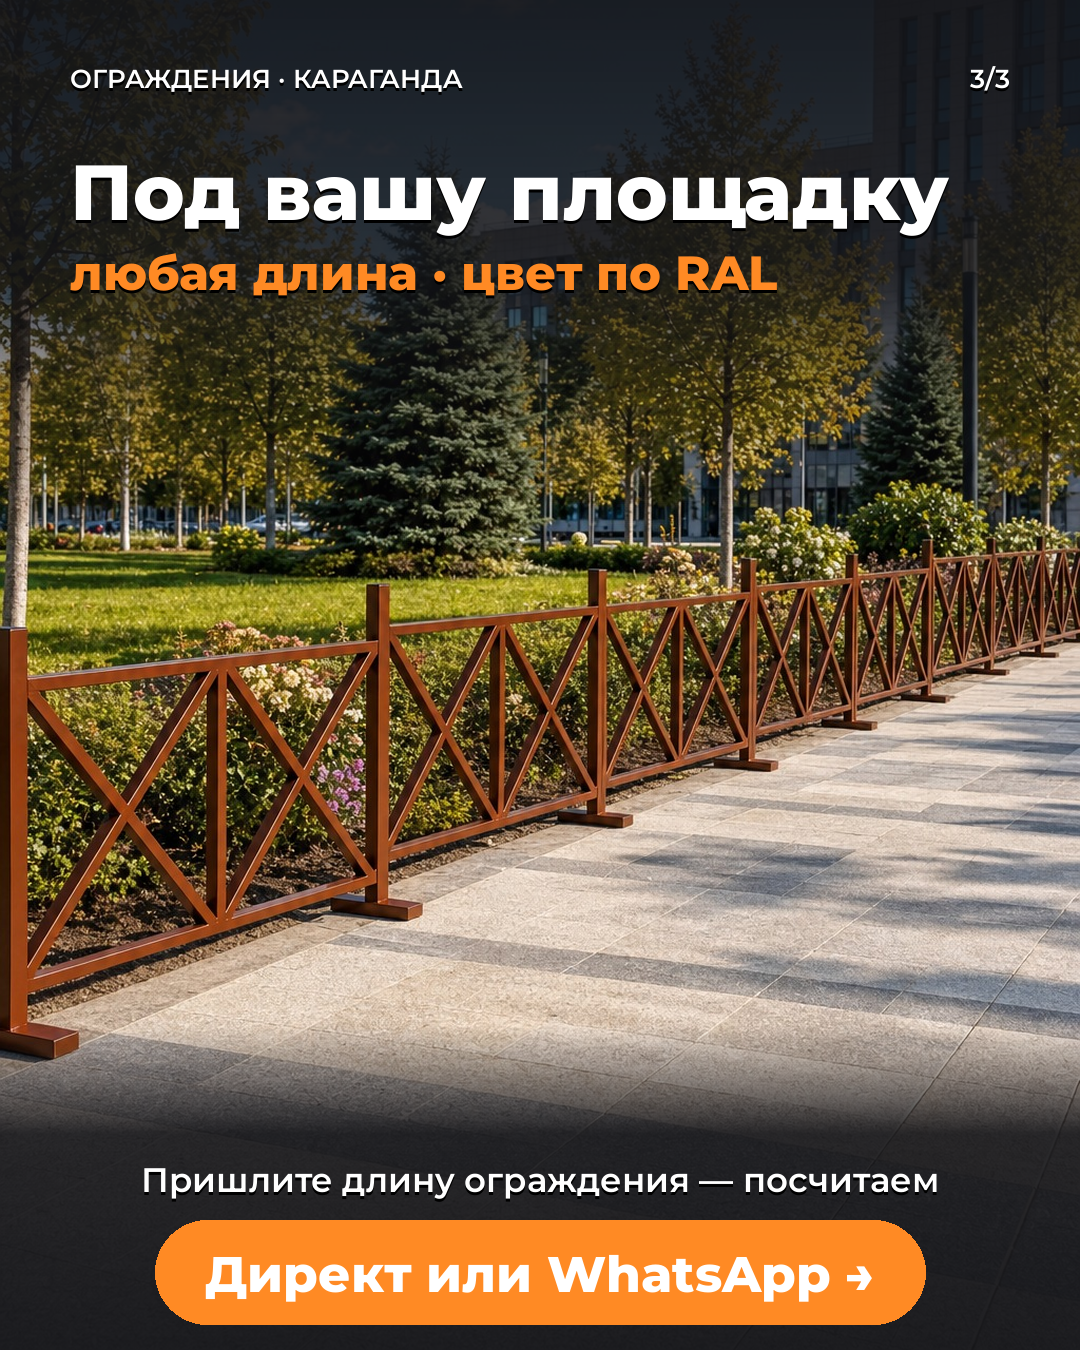
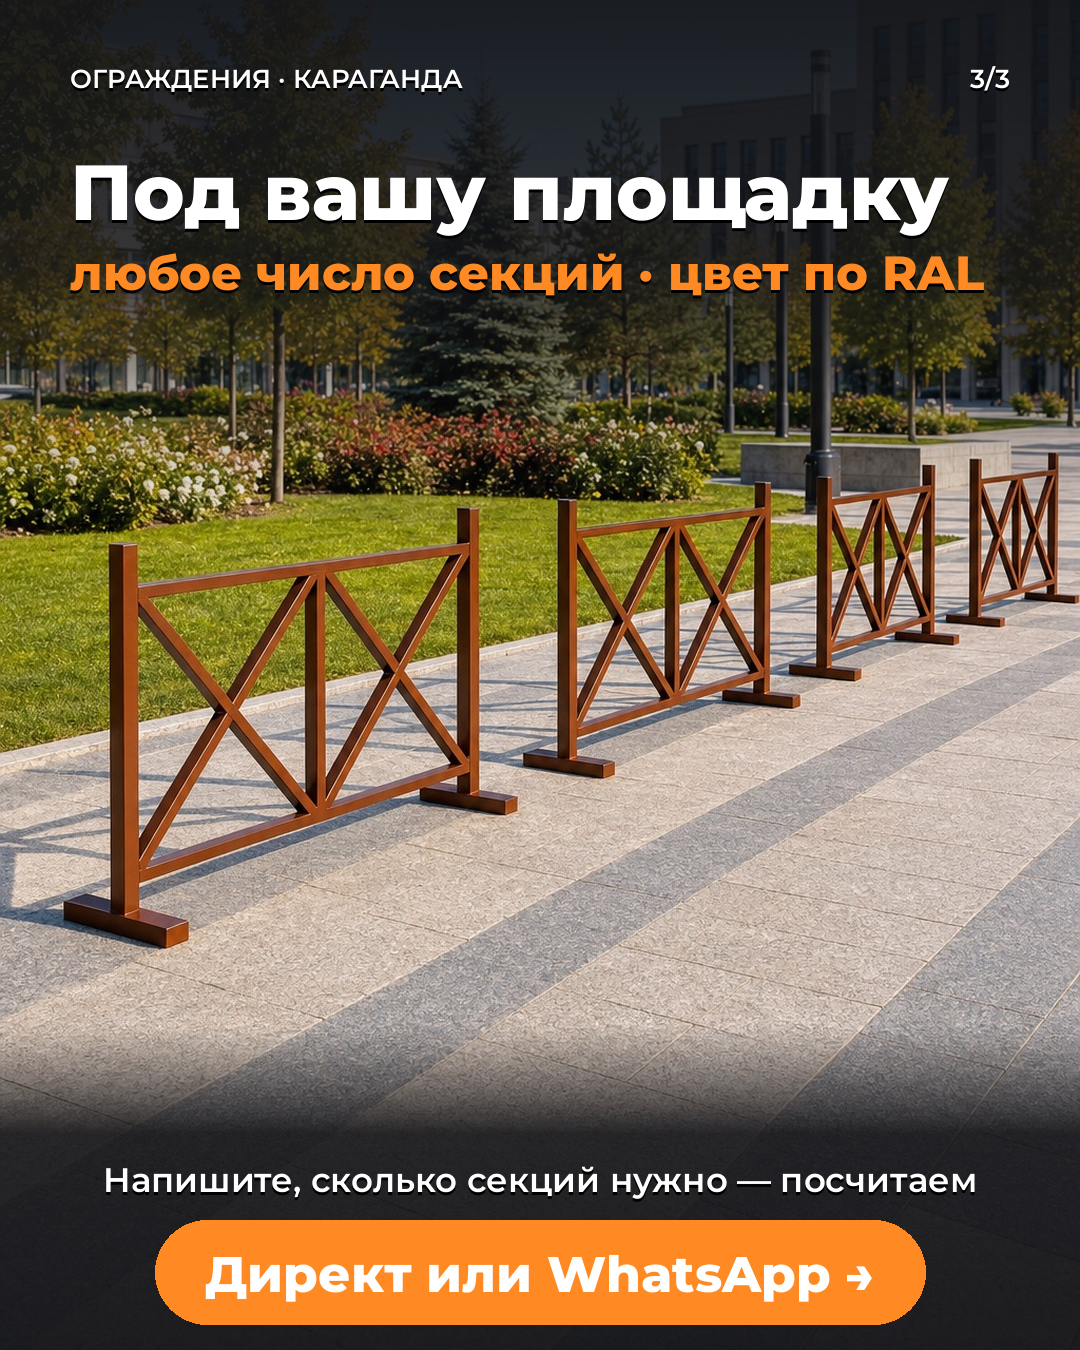
Fence carousel: seamless welded joint close-up, free-standing separate sections
Claude-Session: https://claude.ai/code/session_01WpjTYCbrJZsAU7gXfc5YbY

diff --git a/tools/creatives/render_fence.py b/tools/creatives/render_fence.py
@@ -86,16 +86,16 @@ def slide3(w, h):
         img, d = canvas("row.jpg", w, h, (0.5, 1.0), [(0, 0.95), (0.2, 0.85), (0.3, 0.3), (0.4, 0), (0.76, 0), (0.84, 0.9), (1, 0.95)])
         head(d, w, "3/3")
         text(d, (M, 220), "Под вашу площадку", font("ExtraBold", 78), WHITE, "ls")
-        text(d, (M, 290), "любая длина · цвет по RAL", font("ExtraBold", 48), ORANGE, "ls")
-        text(d, (540, 1180), "Пришлите длину ограждения — посчитаем", font("SemiBold", 34), WHITE, "mm")
+        text(d, (M, 290), "любое число секций · цвет по RAL", font("ExtraBold", 48), ORANGE, "ls")
+        text(d, (540, 1180), "Напишите, сколько секций нужно — посчитаем", font("SemiBold", 34), WHITE, "mm")
         button(d, 540, 1220, "Директ или WhatsApp →", font("ExtraBold", 50))
     else:
         img, d = canvas("row.jpg", w, h, (0.5, 0.5), [(0, 0.95), (0.25, 0.88), (0.34, 0.3), (0.42, 0), (0.8, 0), (0.86, 0.9), (1, 0.95)])
         head(d, w)
         text(d, (540, 300), "Под вашу", font("ExtraBold", 110), WHITE, "ms")
         text(d, (540, 400), "площадку", font("ExtraBold", 110), WHITE, "ms")
-        text(d, (540, 480), "любая длина · цвет по RAL", font("ExtraBold", 54), ORANGE, "ms")
-        text(d, (540, 1700), "Пришлите длину ограждения — посчитаем", font("SemiBold", 36), WHITE, "mm")
+        text(d, (540, 480), "любое число секций · цвет по RAL", font("ExtraBold", 46), ORANGE, "ms")
+        text(d, (540, 1700), "Напишите, сколько секций нужно — посчитаем", font("SemiBold", 36), WHITE, "mm")
         button(d, 540, 1745, "Написать в WhatsApp →", font("ExtraBold", 50))
     return img
 
